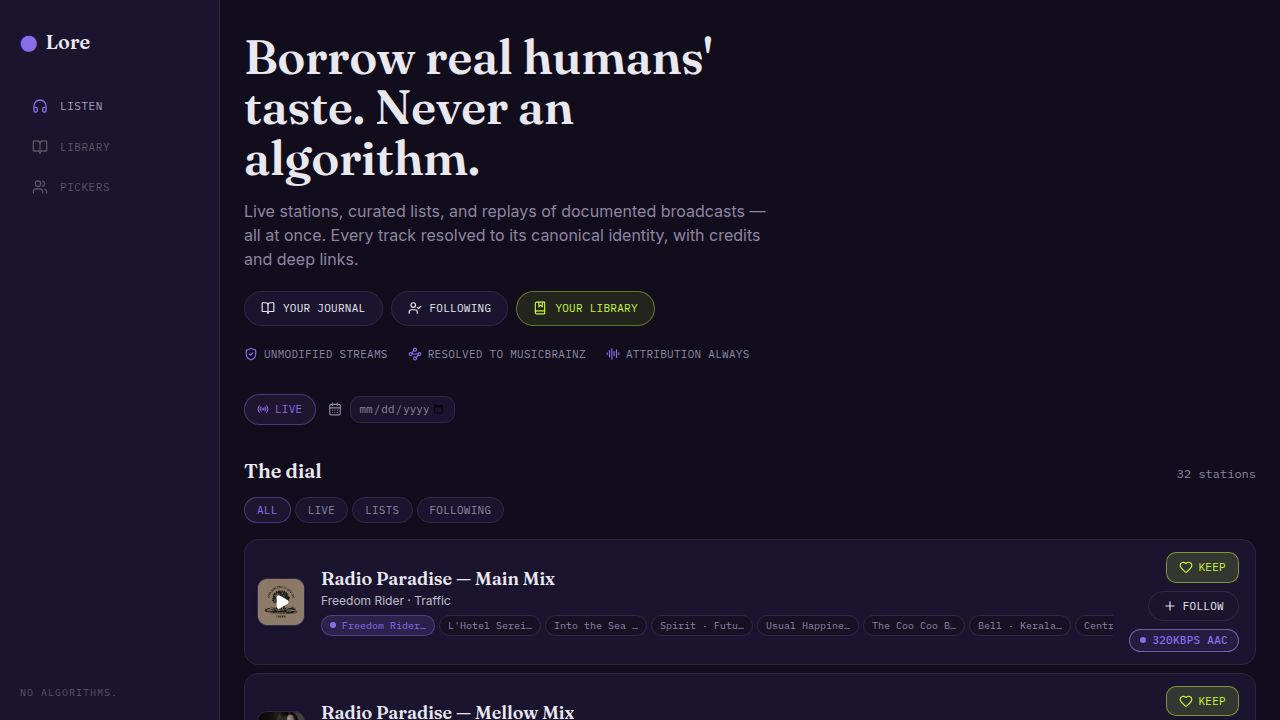
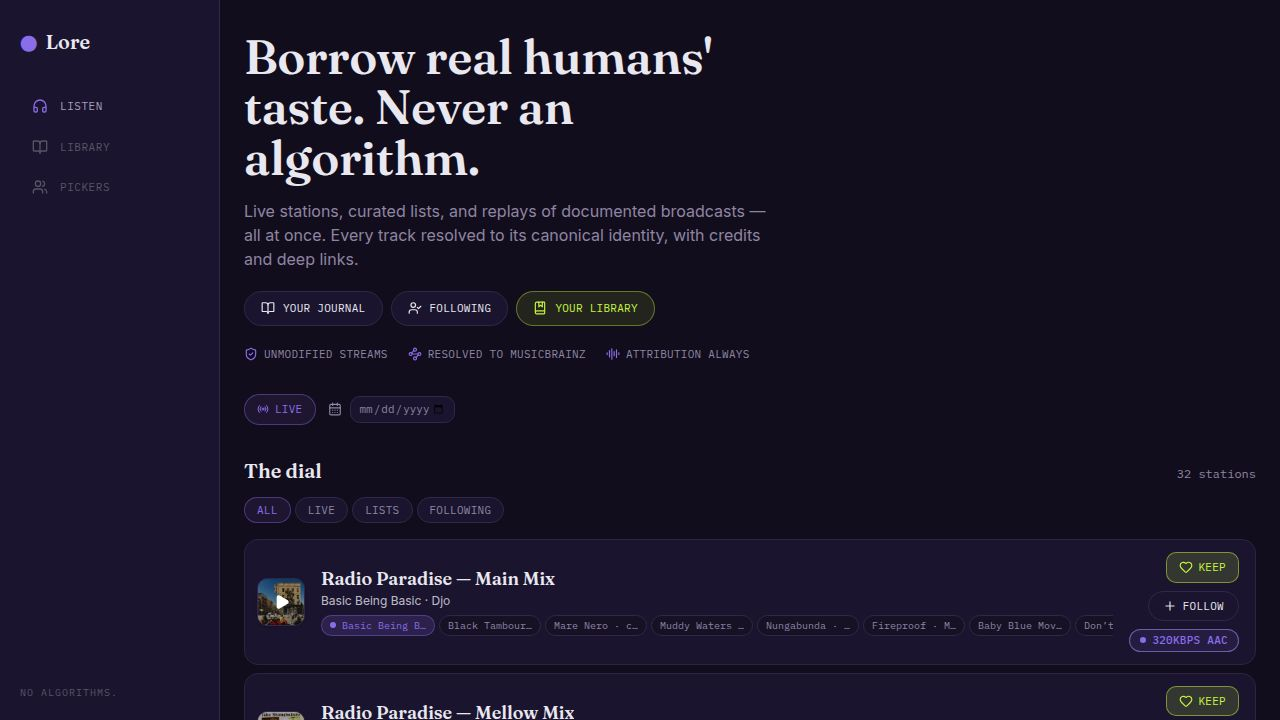
Add live show information to NTS radio station listings
Implement client-side fetching for NTS live show data in `Home.tsx` and create new hooks in `useNtsClientLive.ts` to handle API requests, bypassing datacenter IP blocks.

Replit-Commit-Author: Agent
Replit-Commit-Session-Id: 9a42ae9b-f730-4ff3-bba2-7befcfeb9203
Replit-Commit-Checkpoint-Type: full_checkpoint
Replit-Commit-Event-Id: f875de40-1936-4bc7-8aed-5009effb3af0
Replit-Commit-Screenshot-Url: https://storage.googleapis.com/screenshot-production-us-central1/328c7e60-1e3e-4285-858c-1e54fe82d9e8/9a42ae9b-f730-4ff3-bba2-7befcfeb9203/nKgv7kX
Replit-Helium-Checkpoint-Created: true

diff --git a/artifacts/lore/src/hooks/useNtsClientLive.ts b/artifacts/lore/src/hooks/useNtsClientLive.ts
@@ -1,0 +1,59 @@
+import { useQuery } from "@tanstack/react-query";
+
+export interface NtsShowInfo {
+  showName: string;
+  djName?: string;
+}
+
+interface NtsLiveBody {
+  now?: {
+    broadcast_title?: string;
+    start_timestamp?: string;
+    embeds?: { details?: { name?: string } };
+  };
+}
+
+async function fetchNtsChannel(channel: 1 | 2): Promise<NtsShowInfo | null> {
+  try {
+    const res = await fetch(`https://www.nts.live/api/v2/live/${channel}`, {
+      headers: { Accept: "application/json" },
+      signal: AbortSignal.timeout(6000),
+    });
+    if (!res.ok) return null;
+    const body = (await res.json()) as NtsLiveBody;
+    const now = body.now;
+    if (!now) return null;
+    if (now.start_timestamp) {
+      const startMs = new Date(now.start_timestamp).getTime();
+      if (!isNaN(startMs) && startMs > Date.now()) return null;
+    }
+    const showName = now.broadcast_title?.trim();
+    if (!showName) return null;
+    const djName = now.embeds?.details?.name?.trim() || undefined;
+    return { showName, djName };
+  } catch {
+    return null;
+  }
+}
+
+export function useNtsChannel1() {
+  return useQuery({
+    queryKey: ["nts-client-live", 1] as const,
+    queryFn: () => fetchNtsChannel(1),
+    refetchInterval: 2 * 60 * 1000,
+    staleTime: 90 * 1000,
+    retry: false,
+    gcTime: 5 * 60 * 1000,
+  });
+}
+
+export function useNtsChannel2() {
+  return useQuery({
+    queryKey: ["nts-client-live", 2] as const,
+    queryFn: () => fetchNtsChannel(2),
+    refetchInterval: 2 * 60 * 1000,
+    staleTime: 90 * 1000,
+    retry: false,
+    gcTime: 5 * 60 * 1000,
+  });
+}

diff --git a/artifacts/lore/src/pages/Home.tsx b/artifacts/lore/src/pages/Home.tsx
@@ -27,6 +27,7 @@ import {
 } from "@workspace/api-client-react";
 import { usePlayer } from "../player/PlayerProvider";
 import { useFollows, isFollowed } from "../lib/local";
+import { useNtsChannel1, useNtsChannel2 } from "../hooks/useNtsClientLive";
 import { StationList } from "../components/StationList";
 import { PickerDial } from "../components/PickerDial";
 import { NowPlaying } from "../components/NowPlaying";
@@ -231,6 +232,12 @@ function LiveMode({ selectedDate }: { selectedDate: string | null }) {
   const [dialFilter, setDialFilter] = useState<DialFilterTab>("all");
   const follows = useFollows();
 
+  // Client-side NTS show data — NTS blocks datacenter IPs but browser requests
+  // from residential IPs work fine. These queries run in the browser and refresh
+  // every 2 minutes, matching NTS show durations.
+  const { data: nts1Show } = useNtsChannel1();
+  const { data: nts2Show } = useNtsChannel2();
+
   const stations = useMemo(() => data?.stations ?? [], [data]);
 
   const activeSlug = player.station?.slug ?? null;
@@ -336,10 +343,32 @@ function LiveMode({ selectedDate }: { selectedDate: string | null }) {
   }, [dialFilter, pickerItems, follows]);
 
   const pulseBySlug = useMemo(() => {
-    return new Map(
+    const map = new Map(
       (pulse?.items ?? []).map((i) => [i.slug, i.nowPlaying ?? null]),
     );
-  }, [pulse]);
+    // Overlay client-side NTS show data when the server has nothing
+    // (NTS blocks server-to-server API calls; browser requests work fine).
+    const ntsOverlay: [string, typeof nts1Show][] = [
+      ["nts-1", nts1Show],
+      ["nts-2", nts2Show],
+    ];
+    for (const [slug, show] of ntsOverlay) {
+      if (!show) continue;
+      const existing = map.get(slug);
+      if (existing?.show) continue; // server already populated show
+      const withShow = existing
+        ? { ...existing, show: { name: show.showName, djName: show.djName ?? null } }
+        : {
+            rawArtist: show.djName ?? "",
+            rawTitle: show.showName,
+            confidence: "unresolved" as const,
+            playedAt: new Date().toISOString(),
+            show: { name: show.showName, djName: show.djName ?? null },
+          };
+      map.set(slug, withShow);
+    }
+    return map;
+  }, [pulse, nts1Show, nts2Show]);
 
   // Dial badges: batch every resolved now-playing MBID into one lookup —
   // "which of these songs did a critic/label/curator vouch for?"

diff --git a/.agents/memory/nts-api-block.md b/.agents/memory/nts-api-block.md
@@ -1,0 +1,27 @@
+---
+name: NTS API datacenter block
+description: NTS Live API and all nts.live API endpoints block datacenter IPs via CloudFront WAF; stream also needed crossOrigin fix.
+---
+
+## The rule
+
+NTS Live API (`nts.live/api/v2/live/{channel}` and all other `/api/v2/*` paths) returns HTTP 400 with `x-cache: Error from cloudfront` from any Replit IP (dev or prod). The block is IP-range based (datacenter ranges), not key/auth based.
+
+**Why:** NTS uses CloudFront WAF rules that drop non-residential/datacenter IP ranges. This is a silent content policy, not a documented API restriction.
+
+## Stream playback fix
+
+The audio element must NOT use `crossOrigin="anonymous"`. NTS streams redirect through multiple cross-origin hops:
+`stream-relay-geo.ntslive.net` (no CORS headers) → `streams.radiomast.io` → `audio-edge-*.mia.g.radiomast.io`
+
+With `crossOrigin="anonymous"`, the browser enforces CORS on each hop and kills the request at the first headerless 302. Without it, the browser follows redirects normally.
+
+**How to apply:** If any stream uses a multi-hop geo-redirect, `crossOrigin="anonymous"` will break it. Only set it when you need WebAudio API access (analyser nodes, etc.) — which Lore doesn't use.
+
+## Show metadata workaround
+
+Server-side NTS API calls always fail. Browser-side calls from residential IPs work fine (same API, `access-control-allow-origin: *` on 200 responses).
+
+**Pattern used:** `useNtsChannel1()` / `useNtsChannel2()` in `src/hooks/useNtsClientLive.ts` — `useQuery` hooks that fetch the NTS Live API directly from the user's browser, refetch every 2 min, return null on any failure. Home.tsx overlays the result into `pulseBySlug` for `nts-1` / `nts-2` when the server pulse has no show data.
+
+**How to apply:** Any metadata that NTS exposes in their API must be fetched client-side (browser) and overlaid onto server data. Never route it through the api-server — it will always get 400.